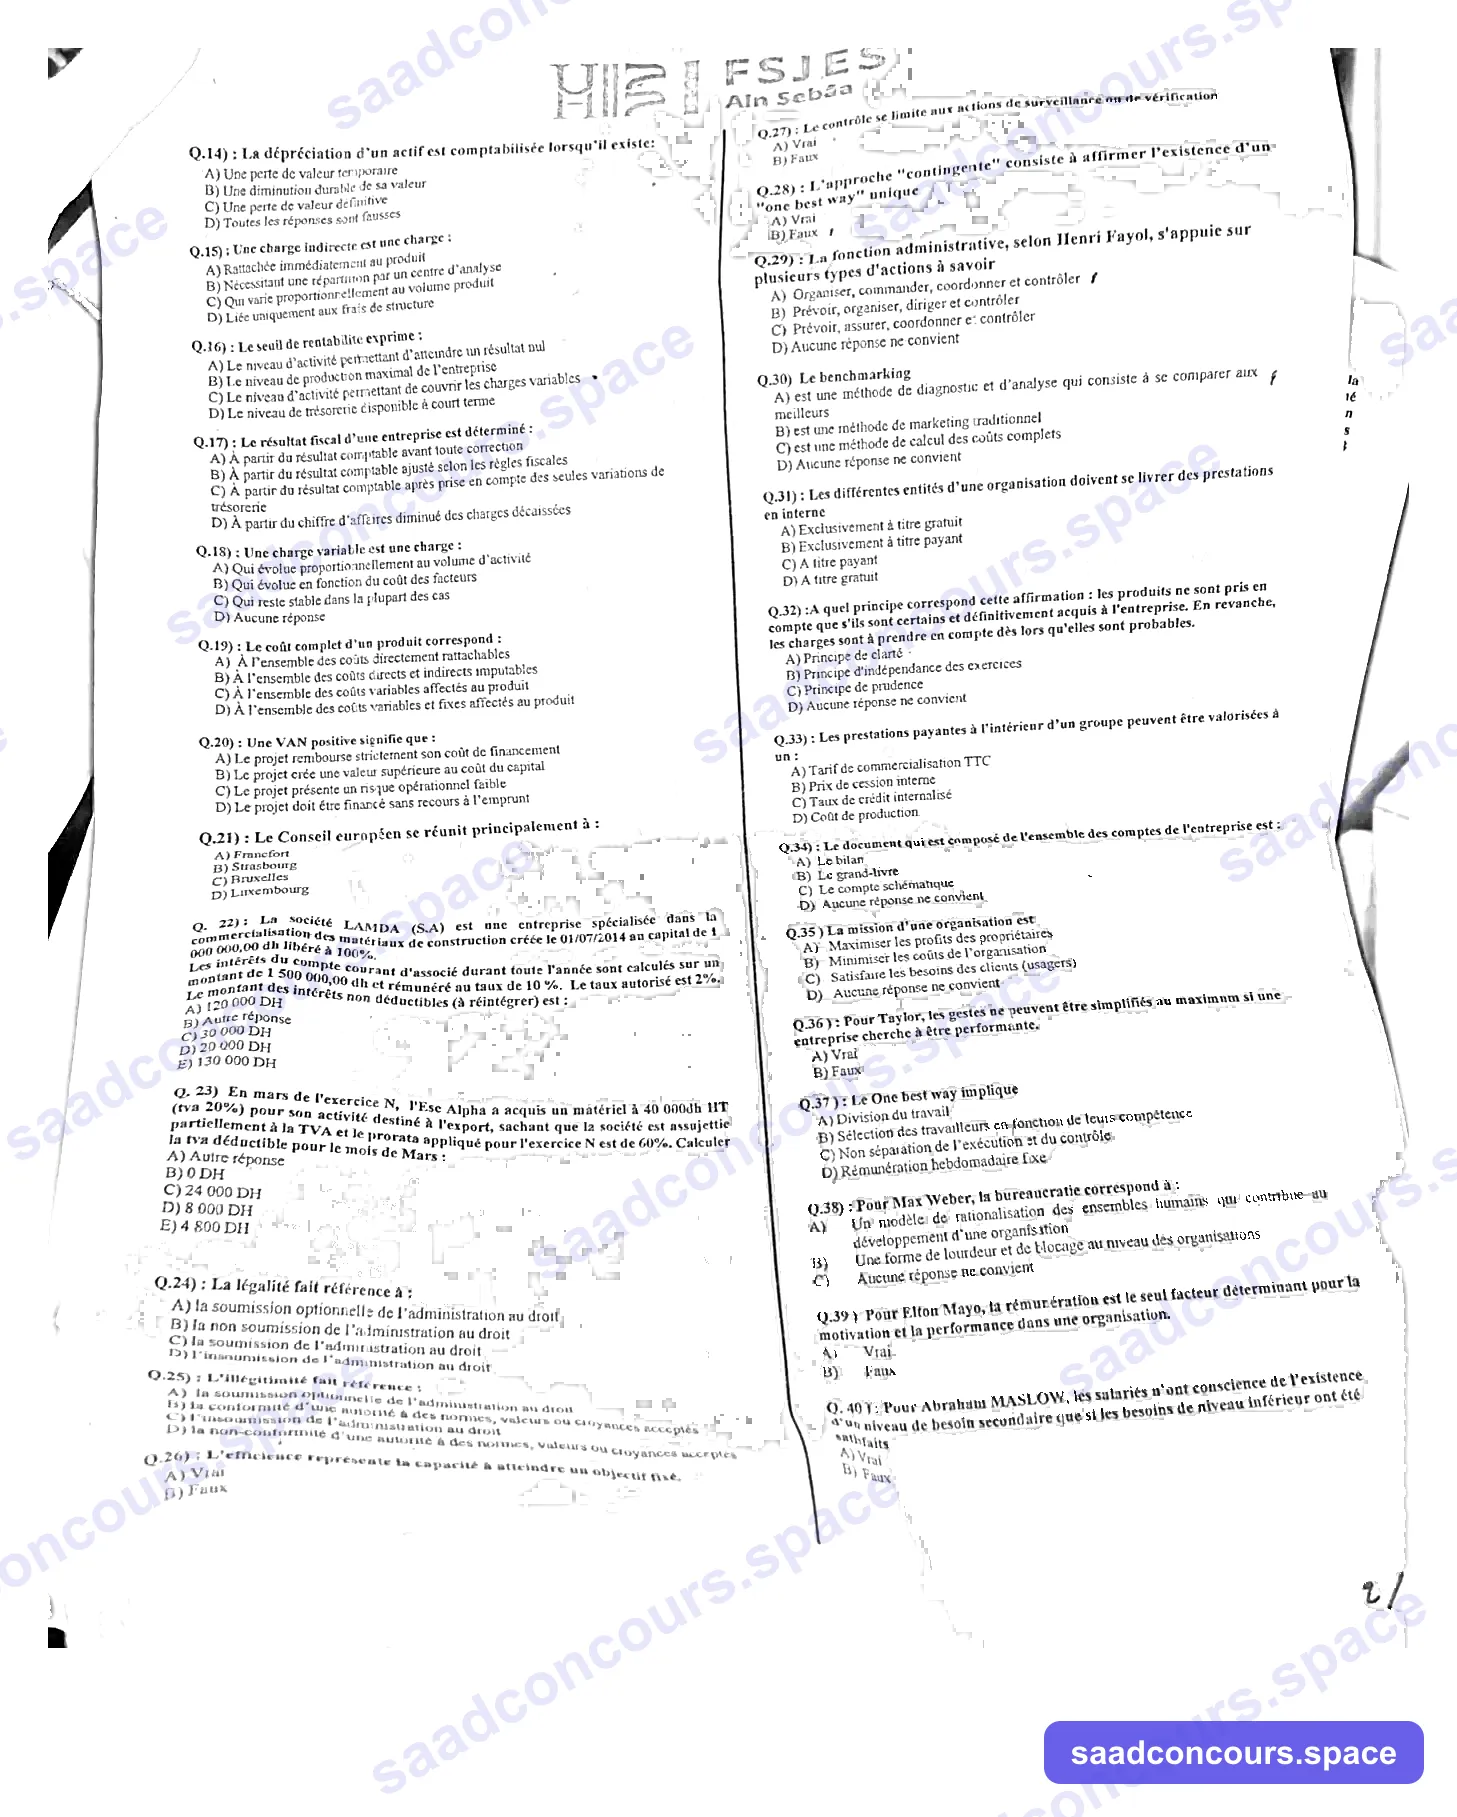
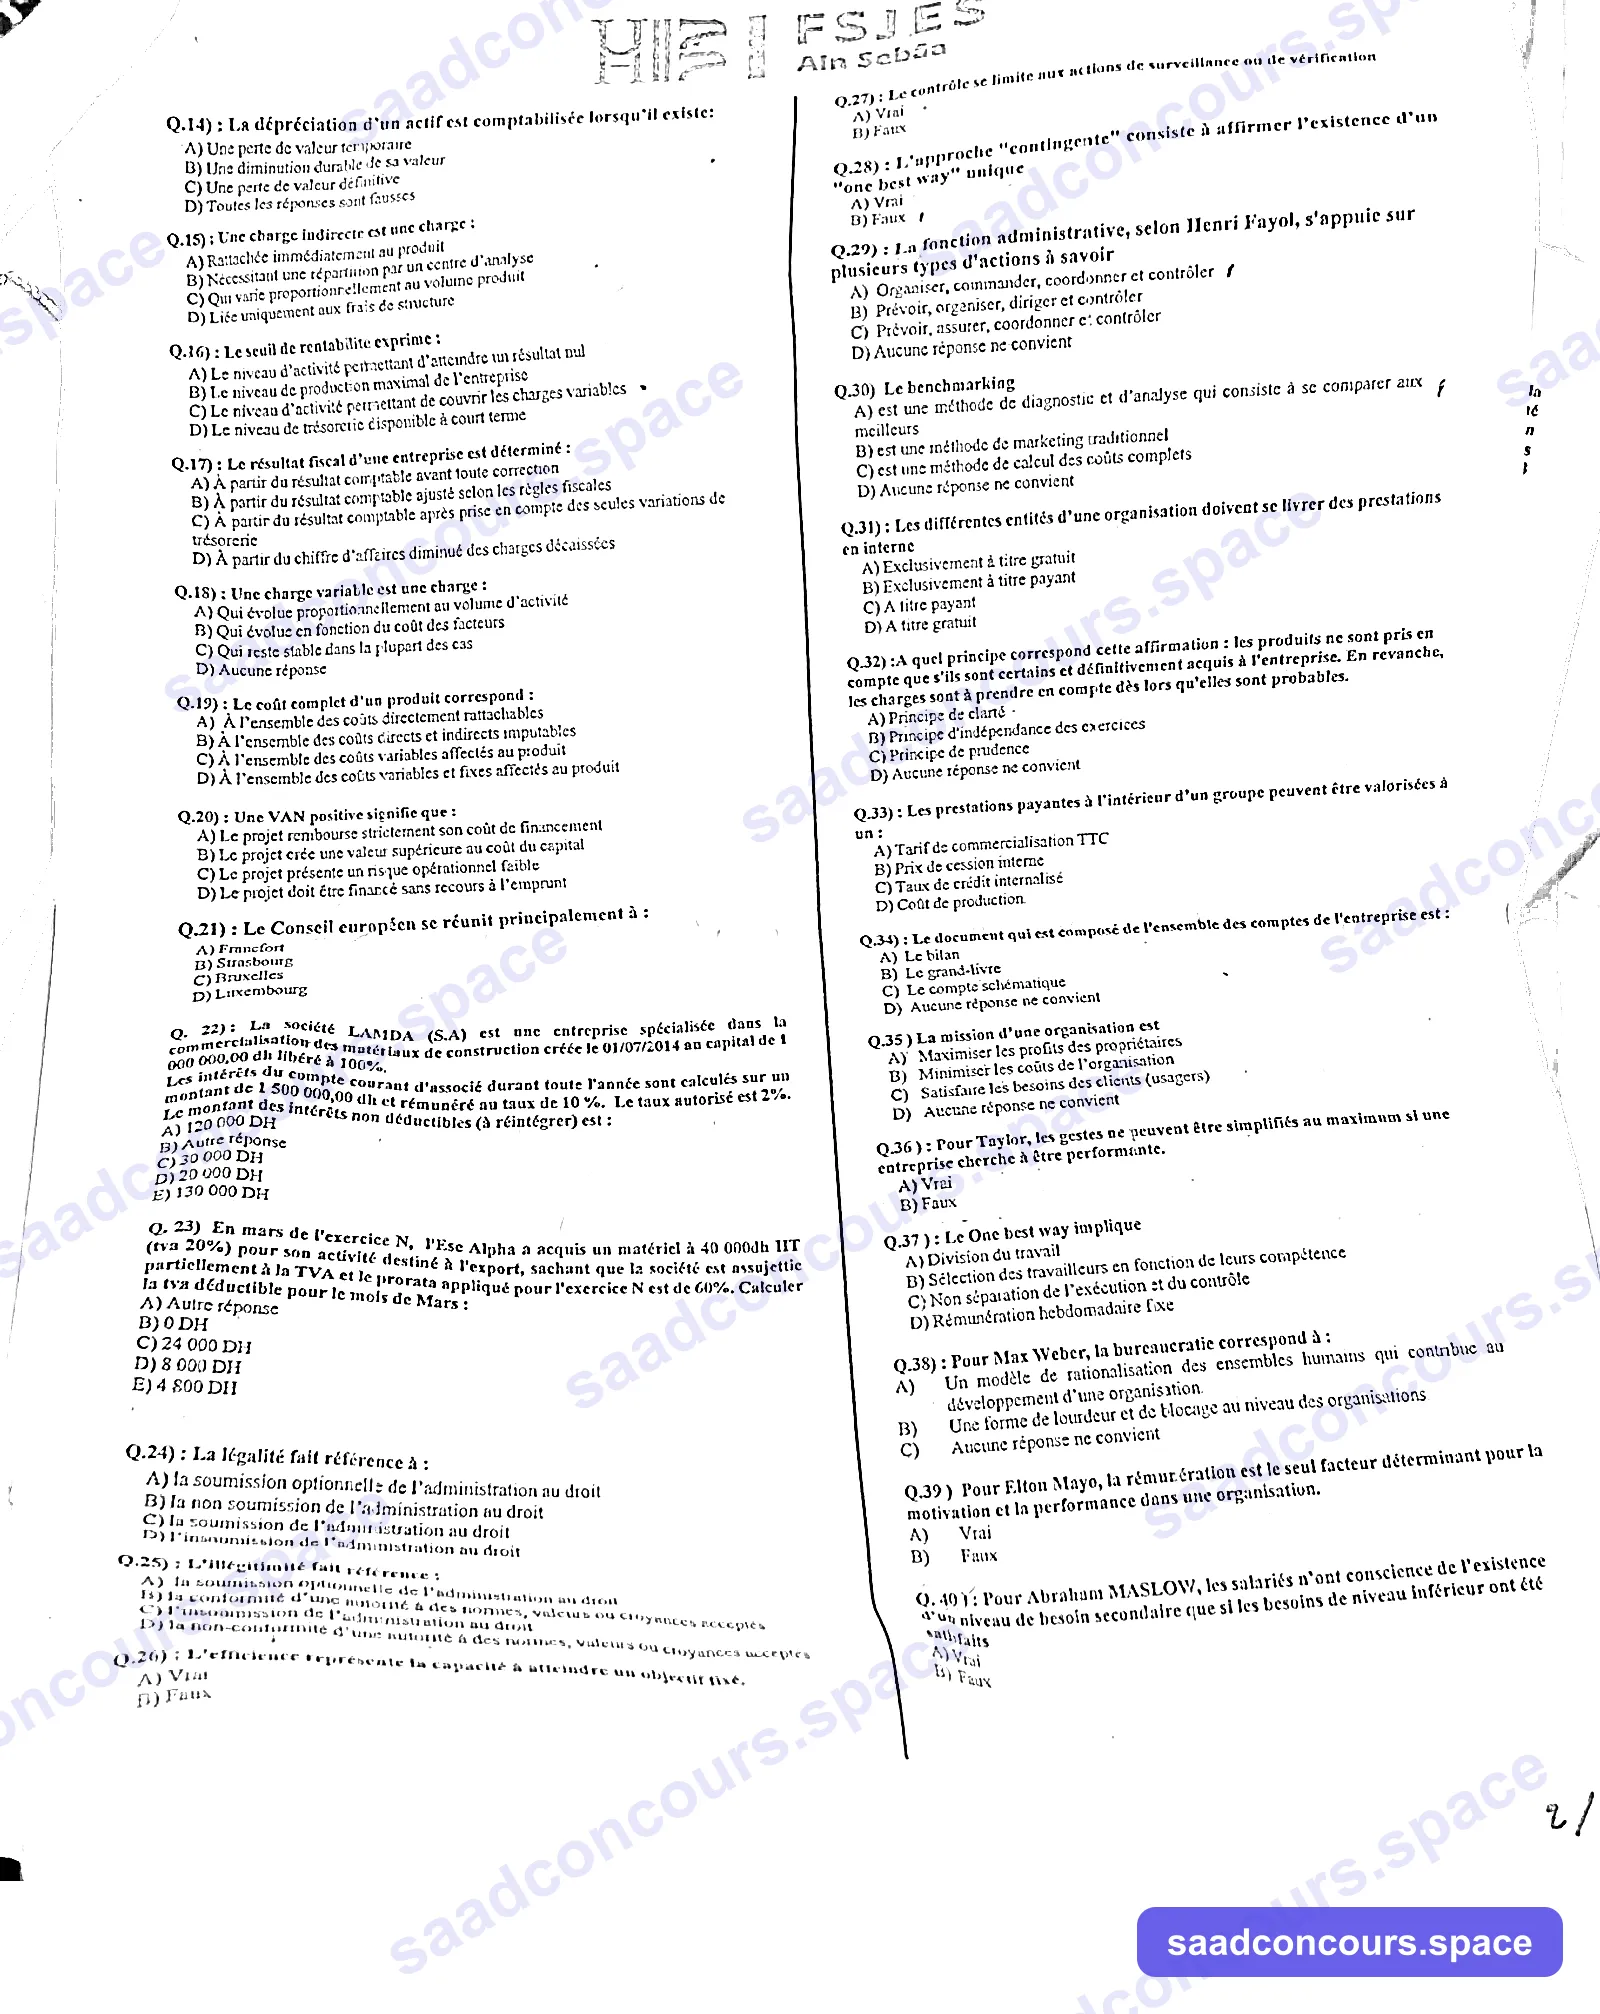
Refait les scans du concours GFC de la FSJES Aïn Sebaâ 2026
Le nettoyage automatique du 2026-10-04 (seuil dur à 238) avait blanchi
le texte fin et les zones ombrées des photos : les Q25 et Q26 de la
page 2 étaient presque illisibles.

Les trois pages sont refaites à partir des photos d'origine : niveaux
de gris, éclairage égalisé, contraste doux qui garde le texte fin,
bords sombres effacés, puis filigrane saadconcours.space.
- p1 : tissu et seconde feuille blanchis autour de la feuille, page
  redressée de 2,5°.
- p2, p3 : coins de table, pli et reste de main effacés.

La recette « Scans » de BANQUE_PROMPTS.md indique de ne plus passer
nettoyer-scans.mjs sur nos propres photos sans filigrane tiers.

diff --git a/BANQUE_PROMPTS.md b/BANQUE_PROMPTS.md
@@ -244,6 +244,13 @@ Règles des champs :
   en gris clair (seuil 238 ; plus bas, le texte fin des QCM disparaît, précédent CCA Agadir 2019).
   Passage de 2026-10-04 : 684 scans traités, environ 460 marques fsjesmaster effacées, et une
   centaine encore visible (marque collée au texte, petite ou très floue).
+  **Ne pas passer `nettoyer-scans.mjs` sur mes propres photos sans filigrane tiers** : son seuil dur
+  (238) blanchit le texte fin et les zones ombrées (précédent : GFC Aïn Sebaâ 2026, Q25–Q26 effacées,
+  refait le 2026-10-06). Pour une photo de téléphone (ombre, fond de tissu, petite résolution) :
+  niveaux de gris, fond égalisé (division par le fond médian/flou à 1/8), courbe douce
+  (papier ≥ 0,95 → blanc, ≤ 0,50 → noir, gamma 1,2), netteté σ 1 ; bords sombres reliés au cadre
+  effacés ; tissu ou feuille voisine blanchis par un polygone tracé à la main autour de la feuille ;
+  redresser l'inclinaison (`rotate` sur fond blanc) ; puis `filigrane-scans.mjs`.
 - Photos qui portent le filigrane d'un tiers (ex. « Prof … whatsapp ») **et** des annotations au
   stylo bleu d'un ancien lecteur (soulignements, ratures, chiffres en marge) : même script, avec
   `"encre": true` (efface le stylo bleu) et, sur une photo nette, `"seuil": 200` (filigrane gris plus
